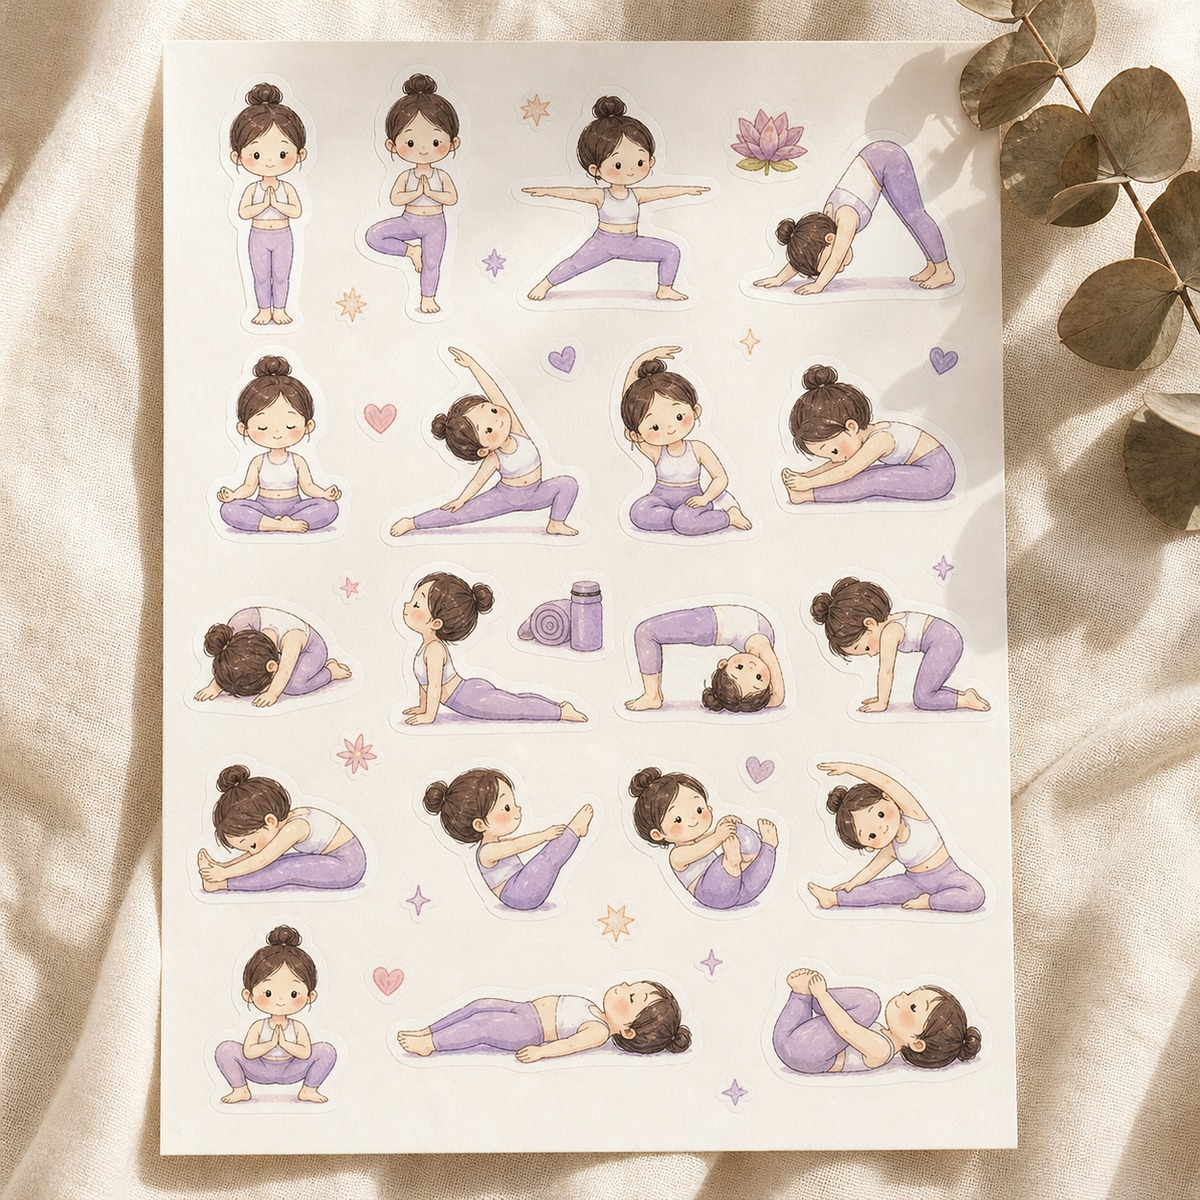
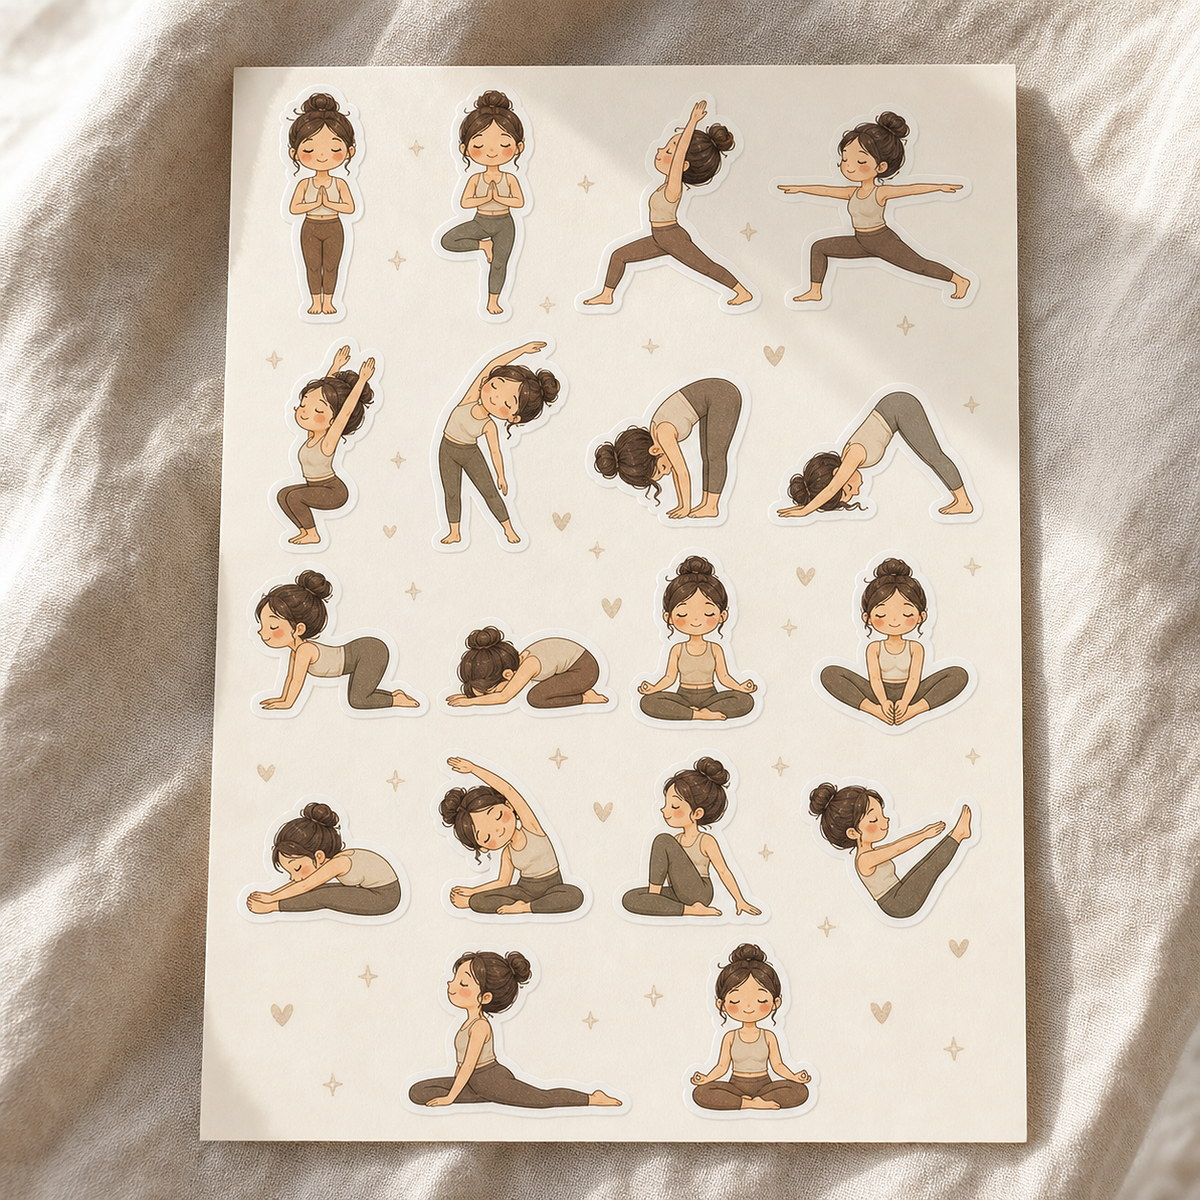
01·03·06 대표이미지 교체, 03·07 PDF/실물 옵션 분리

diff --git a/index.html b/index.html
@@ -228,6 +228,7 @@ ul{padding:0;list-style:none}
 }
 .card-badge.soon{color:#7a725f;background:rgba(245,238,227,.92);border:1px solid rgba(255,255,255,.7)}
 .card-badge.form{background:rgba(44,41,37,.9);color:var(--paper);letter-spacing:.1em;border:1px solid rgba(44,41,37,.9)}
+.card-badge.dual{background:rgba(108,113,87,.94);color:var(--paper);letter-spacing:.1em;border:1px solid rgba(108,113,87,.94)}
 .card-channel{display:inline-flex;align-items:center;gap:6px;margin-top:8px;font-size:10.5px;letter-spacing:.03em;color:var(--ink-2)}
 .card-channel::before{content:"";width:5px;height:5px;border-radius:50%;background:var(--olive);flex:none}
 .card-channel.store::before{background:#c6b193}
@@ -253,6 +254,7 @@ ul{padding:0;list-style:none}
 .price-now b{font-weight:500;font-size:16px}
 .price-was{font-size:11.5px;color:#a49a8a;text-decoration:line-through}
 .price-off{font-size:10px;letter-spacing:.08em;color:var(--clay)}
+.price-from{font-size:10.5px;letter-spacing:.01em;color:var(--muted)}
 .card-more{font-size:11px;color:var(--muted);letter-spacing:.06em;display:none}
 
 /* 준비 중 카드 */
@@ -380,6 +382,20 @@ ul{padding:0;list-style:none}
 .m-price .now b{font-weight:500}
 .m-price .was{font-size:12.5px;color:#a49a8a;text-decoration:line-through}
 .m-price .off{font-size:10.5px;color:var(--clay);letter-spacing:.06em;border:1px solid rgba(176,122,92,.35);padding:2px 7px}
+.m-variants{display:grid;grid-template-columns:1fr 1fr;gap:8px}
+.m-var{
+  display:flex;flex-direction:column;gap:3px;text-align:left;padding:12px 14px;
+  border:1px solid var(--line);background:rgba(255,255,255,.45);
+  transition:background .3s var(--ease),border-color .3s var(--ease),color .3s var(--ease);
+}
+.m-var .v-label{display:flex;align-items:center;gap:7px;font-size:12.5px;letter-spacing:-.01em;line-height:1.4}
+.m-var .v-price{font-size:10.5px;color:var(--muted);letter-spacing:.02em}
+.m-var:hover{border-color:var(--ink-2)}
+.m-var[aria-pressed="true"]{background:var(--ink);border-color:var(--ink);color:var(--paper)}
+.m-var[aria-pressed="true"] .v-price{color:rgba(251,247,240,.6)}
+.m-variant-block[hidden]{display:none}
+.modal-media.contain img{object-fit:contain;background:#F7F2EB}
+@media(max-width:760px){.m-variants{grid-template-columns:1fr;gap:7px}.m-var{padding:11px 13px}}
 .m-rule{height:1px;background:var(--line);margin:24px 0}
 .m-block{margin-bottom:20px}
 .m-block h6{font-size:10px;letter-spacing:.2em;color:var(--muted);text-transform:uppercase;font-weight:500;margin-bottom:9px}
@@ -988,12 +1004,16 @@ ul{padding:0;list-style:none}
 <div class="modal" id="modal" role="dialog" aria-modal="true" aria-labelledby="mTitle" aria-hidden="true">
   <div class="modal-bg" data-close></div>
   <div class="modal-sheet" role="document">
-    <div class="modal-media"><img id="mImg" alt=""></div>
+    <div class="modal-media" id="mMedia"><img id="mImg" alt=""></div>
     <div class="modal-body">
       <button class="modal-close" data-close aria-label="닫기"></button>
       <p class="m-cat" id="mCat"></p>
       <h3 class="m-title" id="mTitle"></h3>
       <p class="m-sub" id="mSub"></p>
+      <div class="m-block m-variant-block" id="mVariantBlock" hidden>
+        <h6>받는 형태</h6>
+        <div class="m-variants" id="mVariants" role="group" aria-label="받는 형태 선택"></div>
+      </div>
       <div class="m-price">
         <span class="now"><b id="mNow"></b>원</span>
         <span class="was" id="mWas"></span>
@@ -1060,16 +1080,32 @@ const PRODUCTS = [
     point: '한 회기를 끝까지 끌고 갈 수 있도록 예상 반응과 대응 멘트까지 적었습니다. A4 흑백 인쇄에 맞춰 여백을 잡았어요.'
   },
   {
-    id: 3, no: '03', cat: 'digital', catLabel: 'Digital PDF · Book', channel: 'store',
+    id: 3, no: '03', cat: 'digital', catLabel: 'Digital PDF · Book', channel: 'form',
     title: '요가 / 필라테스 시퀀스북',
     sub: 'ASAR 요가 100 · ACT 필라테라피 120 기반',
-    desc: '동작의 배열과 호흡을 한 장에 담은 강사용 시퀀스',
+    desc: 'PDF로 바로 받기 / 실물 스프링북 중 선택',
     img: 'assets/p3-sequence-book.jpg',
-    tag: '디지털 PDF · POD 책',
-    price: 29000, was: 39000, status: 'soon',
-    items: ['시퀀스 12개 (초급 / 중급 / 회복 흐름)', '동작 선화 220컷 — 직접 그린 그림', '호흡·큐잉 노트, 수업용 인쇄본(POD) 안내'],
+    tag: '디지털 PDF · 실물 스프링북',
+    price: 19000, was: 29000, status: 'open',
+    items: ['시퀀스 12개 (초급 / 중급 / 회복 흐름)', '동작 선화 220컷 — 직접 그린 그림', '호흡·큐잉 노트'],
     for: ['수업을 준비하는 요가·필라테스 강사', '집에서 혼자 흐름을 만들고 싶은 분'],
-    point: '한 장에 한 시퀀스. 눈으로 따라가면 그대로 수업이 되도록 배열했습니다.'
+    point: '한 장에 한 시퀀스. 눈으로 따라가면 그대로 수업이 되도록 배열했습니다.',
+    variants: [
+      {
+        key: 'pdf', icon: '📄', label: 'PDF 파일로 받기', channel: 'form',
+        price: 19000, priceNote: '바로 발송',
+        tag: '디지털 PDF · 결제 후 메일 발송',
+        items: ['시퀀스북 PDF 1권 (A4 · 인쇄용)', '시퀀스 12개 (초급 / 중급 / 회복 흐름)', '동작 선화 220컷 — 직접 그린 그림', '호흡·큐잉 노트 포함'],
+        fine: '구글폼에서 계좌이체로 신청하시면 확인 후 PDF 파일을 메일로 보내드려요.'
+      },
+      {
+        key: 'book', icon: '📦', label: '실물책으로 받기', channel: 'store',
+        price: 29000, was: 39000, priceNote: '12월 배송',
+        tag: '실물 스프링북 · 12월 배송',
+        items: ['스프링 제본 실물 시퀀스북 1권 (A4)', '시퀀스 12개 (초급 / 중급 / 회복 흐름)', '동작 선화 220컷 — 직접 그린 그림', '호흡·큐잉 노트 포함'],
+        fine: '실물책은 12월 스마트스토어에서 배송될 예정이에요. 지금은 인스타 DM으로 사전 예약을 받고 있어요.'
+      }
+    ]
   },
   {
     id: 4, no: '04', cat: 'digital', catLabel: 'Digital PDF', channel: 'form',
@@ -1100,7 +1136,7 @@ const PRODUCTS = [
     title: '색채 타로카드',
     sub: '색으로 읽는 오늘의 마음',
     desc: '컬러와 상징으로 스스로를 살피는 40장',
-    img: 'assets/p6-color-tarot.jpg',
+    img: 'assets/p6-color-tarot.jpg', fit: 'contain',
     tag: '실물 배송',
     price: 38000, was: 52000, status: 'open',
     items: ['카드 40장 (수채 일러스트)', '안내서 1부 — 리딩 스프레드 3종', '린넨 파우치'],
@@ -1108,16 +1144,32 @@ const PRODUCTS = [
     point: '정답을 말해 주는 카드가 아니라, 질문을 건네는 카드입니다. 색 이름과 감정 단어를 함께 적어 두었어요.'
   },
   {
-    id: 7, no: '07', cat: 'object', catLabel: 'Object · Digital', channel: 'store',
+    id: 7, no: '07', cat: 'object', catLabel: 'Object · Digital', channel: 'form',
     title: '아트 만다라 컬러링북',
     sub: '비우고 채우는 30분',
-    desc: '손을 움직여 마음을 내려놓는 시간',
+    desc: 'PDF로 받기 / 실물 컬러링북 중 선택',
     img: 'assets/p7-mandala-book.jpg',
-    tag: '실물 · PDF',
-    price: 16000, was: 22000, status: 'soon',
-    items: ['만다라 48면 (수채화·색연필 겸용 도안)', '난이도 3단계 · 컬러 가이드', 'PDF판 + 무선 제본 실물'],
+    tag: '디지털 PDF · 실물 컬러링북',
+    price: 12000, was: 18000, status: 'open',
+    items: ['만다라 48면 (수채화·색연필 겸용 도안)', '난이도 3단계 · 컬러 가이드'],
     for: ['잠들기 전 30분을 조용히 쓰고 싶은 분', '아이와 함께 조용한 시간을 갖고 싶은 부모'],
-    point: '여백을 넓게 두어 손이 편하게 움직이도록 했습니다. 잘 채우지 않아도 괜찮은 도안입니다.'
+    point: '여백을 넓게 두어 손이 편하게 움직이도록 했습니다. 잘 채우지 않아도 괜찮은 도안입니다.',
+    variants: [
+      {
+        key: 'pdf', icon: '📄', label: 'PDF 파일로 받기', channel: 'form',
+        price: 12000, priceNote: '바로 발송',
+        tag: '디지털 PDF · 결제 후 메일 발송',
+        items: ['만다라 컬러링북 PDF 1권 (A4 · 인쇄용)', '만다라 48면 (수채화·색연필 겸용 도안)', '난이도 3단계 · 컬러 가이드'],
+        fine: '구글폼에서 계좌이체로 신청하시면 확인 후 PDF 파일을 메일로 보내드려요.'
+      },
+      {
+        key: 'book', icon: '📦', label: '실물책으로 받기', channel: 'store',
+        price: 18000, was: 22000, priceNote: '12월 배송',
+        tag: '실물 컬러링북 · 12월 배송',
+        items: ['무선 제본 실물 컬러링북 1권', '만다라 48면 (수채화·색연필 겸용 도안)', '난이도 3단계 · 컬러 가이드', 'PDF판 함께 제공'],
+        fine: '실물책은 12월 스마트스토어에서 배송될 예정이에요. 지금은 인스타 DM으로 사전 예약을 받고 있어요.'
+      }
+    ]
   }
 ];
 
@@ -1137,6 +1189,9 @@ const PER_ITEM_URL = {};      // 상품별 개별 링크가 필요할 때만: { 
 const itemKey = item => item.key || ('p' + item.id);
 const isForm = item => item.channel !== 'store';
 const urlFor = item => PER_ITEM_URL[itemKey(item)] || (isForm(item) ? GOOGLE_FORM_URL : SMARTSTORE_URL);
+/* 채널을 직접 넣어 계산 (03 · 07처럼 PDF/실물 두 형태를 가진 상품용) */
+const urlForChannel = (channel, item) => PER_ITEM_URL[itemKey(item)] || (channel !== 'store' ? GOOGLE_FORM_URL : SMARTSTORE_URL);
+const minPrice = p => p.variants ? Math.min(...p.variants.map(v => v.price)) : p.price;
 
 /* ============================================================
    온라인 자격증 과정 — 가격·문구는 여기서 고치면 카드·모달이 함께 바뀝니다.
@@ -1196,12 +1251,26 @@ const COURSES = [
 
 /* ---------- 카드 렌더 ---------- */
 const grid = $('#productGrid');
-const badgeOf = p => isForm(p)
-  ? '<span class="card-badge form">구글폼 신청</span>'
-  : '<span class="card-badge soon">스마트스토어 12월</span>';
-const channelLine = p => isForm(p)
-  ? '<span class="card-channel">구글폼 · 계좌이체 즉시 신청</span>'
-  : '<span class="card-channel store">스마트스토어 오픈 예정 · DM 사전 예약</span>';
+const badgeOf = p => p.variants
+  ? '<span class="card-badge dual">PDF · 실물 선택</span>'
+  : (isForm(p)
+    ? '<span class="card-badge form">구글폼 신청</span>'
+    : '<span class="card-badge soon">스마트스토어 12월</span>');
+const channelLine = p => p.variants
+  ? '<span class="card-channel">PDF는 구글폼 · 실물책은 스마트스토어</span>'
+  : (isForm(p)
+    ? '<span class="card-channel">구글폼 · 계좌이체 즉시 신청</span>'
+    : '<span class="card-channel store">스마트스토어 오픈 예정 · DM 사전 예약</span>');
+const priceBlock = p => p.variants
+  ? `<span class="card-price">
+        <span class="price-now"><b>${won(minPrice(p))}</b>원부터</span>
+        <span class="price-from">PDF / 실물책 중 선택</span>
+      </span>`
+  : `<span class="card-price">
+        <span class="price-now"><b>${won(p.price)}</b>원</span>
+        <span class="price-was">${won(p.was)}원</span>
+        <span class="price-off">${Math.round((1 - p.price / p.was) * 100)}%</span>
+      </span>`;
 
 grid.innerHTML = PRODUCTS.map(p => `
   <button class="card reveal" data-id="${p.id}" data-cat="${p.cat}" data-channel-url="${urlFor(p)}" aria-label="${p.title} 상세 보기">
@@ -1215,11 +1284,7 @@ grid.innerHTML = PRODUCTS.map(p => `
       <span class="card-cat">${p.tag}</span>
       <span class="card-title">${p.title}</span>
       <span class="card-desc">${p.desc}</span>
-      <span class="card-price">
-        <span class="price-now"><b>${won(p.price)}</b>원</span>
-        <span class="price-was">${won(p.was)}원</span>
-        <span class="price-off">${Math.round((1 - p.price / p.was) * 100)}%</span>
-      </span>
+      ${priceBlock(p)}
       ${channelLine(p)}
     </div>
   </button>
@@ -1310,34 +1375,35 @@ const modalChannel = (key, label, url) => url
     ? `<a data-ch="dm" href="https://ig.me/m/mindmove_lab" target="_blank" rel="noopener">${label} <span>↗</span></a>`
     : `<button data-ch="${key}" data-channel-url="">${label} <span>↗</span></button>`);
 
-function buyLabel(p) {
-  if (isForm(p)) return '구글폼으로 바로 신청';
+function buyLabel(channel) {
+  if (channel !== 'store') return '구글폼으로 바로 신청';
   return SMARTSTORE_URL ? '스마트스토어에서 구매' : '스마트스토어 오픈 알림 신청';
 }
 
-function openModal(p, kind = 'product') {
+/* 하나의 상품을 지금 화면에 칠한다. variant(받는 형태)를 넘기면 가격·문구·링크가 함께 바뀜니다. */
+function paintModal(p, kind, variant) {
   const isCourse = kind === 'course';
-  const form = isForm(p);
-  const url = urlFor(p);
-  current = { item: p, kind };
-  lastFocus = document.activeElement;
-  $('#mImg').src = p.img;
-  $('#mImg').alt = p.title;
+  const v = variant || null;
+  const channel = v ? v.channel : p.channel;
+  const form = channel !== 'store';
+  const url = urlForChannel(channel, p);
+  const price = v ? v.price : p.price;
+  const was = v ? v.was : p.was;
+  const items = (v && v.items) || p.items;
+
   $('#mCat').textContent = p.tag;
-  $('#mTitle').textContent = p.title;
-  $('#mSub').textContent = p.sub;
-  $('#mNow').textContent = won(p.price);
-  $('#mWas').textContent = won(p.was) + '원';
-  $('#mPriceNote').textContent = isCourse ? '임시 표기' : (form ? '오픈 특가' : '오픈 예정가');
-  $('#mItemsTitle').textContent = p.itemsTitle || '구성';
-  $('#mPointTitle').textContent = isCourse ? '과정의 결' : '미리보기 포인트';
-  $('#mTag').textContent = form
-    ? (isCourse ? '온라인 수강 · 실기 기록 · 수료증 발급' : '구글폼 신청 · 계좌이체 · 디지털 발송')
-    : '스마트스토어 12월 오픈 · 사전 예약 DM';
-  $('#mItems').innerHTML = p.items.map(t => `<li>${t}</li>`).join('');
-  $('#mFor').innerHTML = p['for'].map(t => `<li>${t}</li>`).join('');
-  $('#mPoint').textContent = p.point;
-  $('#mBuy').innerHTML = buyLabel(p) + ' <span class="arw">→</span>';
+  $('#mNow').textContent = won(price);
+  $('#mWas').textContent = was ? won(was) + '원' : '';
+  $('#mWas').style.display = was ? '' : 'none';
+  $('#mPriceNote').textContent = isCourse ? '임시 표기'
+    : (v ? (v.priceNote || (form ? 'PDF 가격' : '실물 가격')) : (form ? '오픈 특가' : '오픈 예정가'));
+  $('#mTag').textContent = (v && v.tag)
+    ? v.tag
+    : (form
+      ? (isCourse ? '온라인 수강 · 실기 기록 · 수료증 발급' : '구글폼 신청 · 계좌이체 · 디지털 발송')
+      : '스마트스토어 12월 오픈 · 사전 예약 DM');
+  $('#mItems').innerHTML = items.map(t => `<li>${t}</li>`).join('');
+  $('#mBuy').innerHTML = buyLabel(channel) + ' <span class="arw">→</span>';
   $('#mBuy').dataset.name = p.title;
   $('#mBuy').dataset.channelUrl = url;
   if (url) { $('#mBuy').href = url; $('#mBuy').target = '_blank'; $('#mBuy').rel = 'noopener'; }
@@ -1347,11 +1413,50 @@ function openModal(p, kind = 'product') {
       + (isCourse ? modalChannel('classes', '과정 문의', '') : '')
       + modalChannel('dm', '인스타 DM', '')
     : modalChannel('store', '스마트스토어', url) + modalChannel('dm', '사전 예약 DM', '');
-  $('#mFine').textContent = form
-    ? (isCourse
-      ? '가격과 모집 일정은 임시 표기입니다. 구글폼에서 계좌이체로 신청하시면 순차적으로 안내드려요.'
-      : '구글폼에서 계좌이체로 신청하시면 확인 후 파일을 보내드려요.')
-    : '스마트스토어는 12월 오픈 예정입니다. 지금은 인스타 DM으로 사전 예약을 받아요.';
+  $('#mFine').textContent = (v && v.fine) ? v.fine
+    : (form
+      ? (isCourse
+        ? '가격과 모집 일정은 임시 표기입니다. 구글폼에서 계좌이체로 신청하시면 순차적으로 안내드려요.'
+        : '구글폼에서 계좌이체로 신청하시면 확인 후 파일을 보내드려요.')
+      : '스마트스토어는 12월 오픈 예정입니다. 지금은 인스타 DM으로 사전 예약을 받아요.');
+}
+
+function renderVariantChips(p, selected) {
+  const block = $('#mVariantBlock'), box = $('#mVariants');
+  if (!p.variants) { block.hidden = true; box.innerHTML = ''; return; }
+  block.hidden = false;
+  box.innerHTML = p.variants.map(v => `
+    <button type="button" class="m-var" data-vk="${v.key}" aria-pressed="${v.key === selected.key}">
+      <span class="v-label"><span aria-hidden="true">${v.icon || ''}</span>${v.label}</span>
+      <span class="v-price">${won(v.price)}원</span>
+    </button>`).join('');
+}
+
+function selectVariant(key) {
+  if (!current || !current.item.variants) return;
+  const p = current.item;
+  const v = p.variants.find(x => x.key === key) || p.variants[0];
+  current.variant = v;
+  renderVariantChips(p, v);
+  paintModal(p, current.kind, v);
+}
+
+function openModal(p, kind = 'product') {
+  const isCourse = kind === 'course';
+  const variant = p.variants ? p.variants[0] : null;
+  current = { item: p, kind, variant };
+  lastFocus = document.activeElement;
+  $('#mImg').src = p.img;
+  $('#mImg').alt = p.title;
+  $('#mMedia').classList.toggle('contain', p.fit === 'contain');
+  $('#mTitle').textContent = p.title;
+  $('#mSub').textContent = p.sub;
+  $('#mItemsTitle').textContent = p.itemsTitle || '구성';
+  $('#mPointTitle').textContent = isCourse ? '과정의 결' : '미리보기 포인트';
+  $('#mFor').innerHTML = p['for'].map(t => `<li>${t}</li>`).join('');
+  $('#mPoint').textContent = p.point;
+  renderVariantChips(p, variant);
+  paintModal(p, kind, variant);
 
   modal.classList.add('show');
   modal.setAttribute('aria-hidden', 'false');
@@ -1374,7 +1479,11 @@ grid.addEventListener('click', e => {
   if (p) openModal(p);
 });
 
-modal.addEventListener('click', e => { if (e.target.closest('[data-close]')) closeModal(); });
+modal.addEventListener('click', e => {
+  if (e.target.closest('[data-close]')) { closeModal(); return; }
+  const chip = e.target.closest('.m-var');
+  if (chip && current && current.item.variants) selectVariant(chip.dataset.vk);
+});
 document.addEventListener('keydown', e => {
   if (e.key === 'Escape' && modal.classList.contains('show')) closeModal();
 });
@@ -1403,7 +1512,8 @@ $('#mBuy').addEventListener('click', e => {
   if (url) return;   // 실제 링크로 새 탭 이동
   e.preventDefault();
   const item = current && current.item;
-  toast(item && isForm(item)
+  const ch = current && current.variant ? current.variant.channel : (item && item.channel);
+  toast(ch !== 'store'
     ? '구글폼을 준비 중이에요. 지금은 인스타 DM이나 이메일로 먼저 신청받고 있어요.'
     : '스마트스토어는 12월 오픈 예정이에요. 인스타 DM으로 사전 예약을 받고 있어요.');
 });
@@ -1435,7 +1545,7 @@ function syncChannelState() {
     const fDot = $('[data-form-dot]', box), fTxt = $('[data-form-text]', box), fLink = $('[data-form-link]', box);
     if (fDot) fDot.classList.toggle('on', formOn);
     if (fTxt) fTxt.textContent = formOn
-      ? '구글폼(계좌이체)으로 01·02·04 상품과 자격증 두 과정을 바로 신청할 수 있어요.'
+      ? '구글폼(계좌이체)으로 01·02·04 상품과 03·07의 PDF, 자격증 두 과정을 바로 신청할 수 있어요.'
       : '구글폼 신청은 준비 중이에요. 지금은 인스타 DM·이메일로 먼저 신청받고 있어요.';
     if (fLink) {
       fLink.href = formOn ? GOOGLE_FORM_URL : 'https://ig.me/m/mindmove_lab';
@@ -1446,7 +1556,7 @@ function syncChannelState() {
     if (sDot) sDot.classList.toggle('on', storeOn);
     if (sTxt) sTxt.textContent = storeOn
       ? '실물 상품(03·05·06·07)은 스마트스토어에서 바로 구매하실 수 있어요.'
-      : '실물 상품(03·05·06·07)은 스마트스토어에서 12월 오픈 예정이에요. 지금은 DM으로 사전 예약을 받아요.';
+      : '실물 상품(05·06)과 03·07의 실물책은 스마트스토어에서 12월 오픈 예정이에요. 지금은 DM으로 사전 예약을 받아요.';
     if (sLink) {
       sLink.href = storeOn ? SMARTSTORE_URL : 'https://ig.me/m/mindmove_lab';
       sLink.textContent = storeOn ? '스마트스토어 열기 ↗' : '사전 예약 DM ↗';
